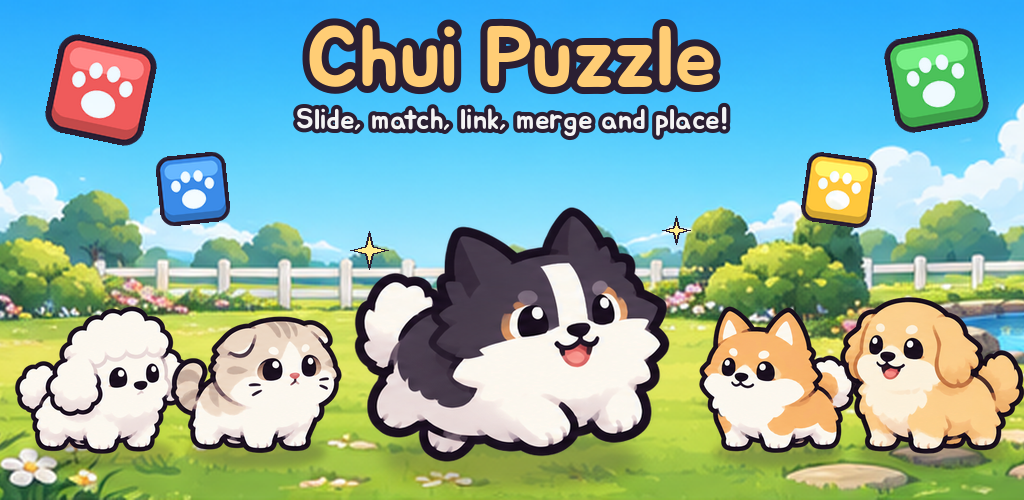
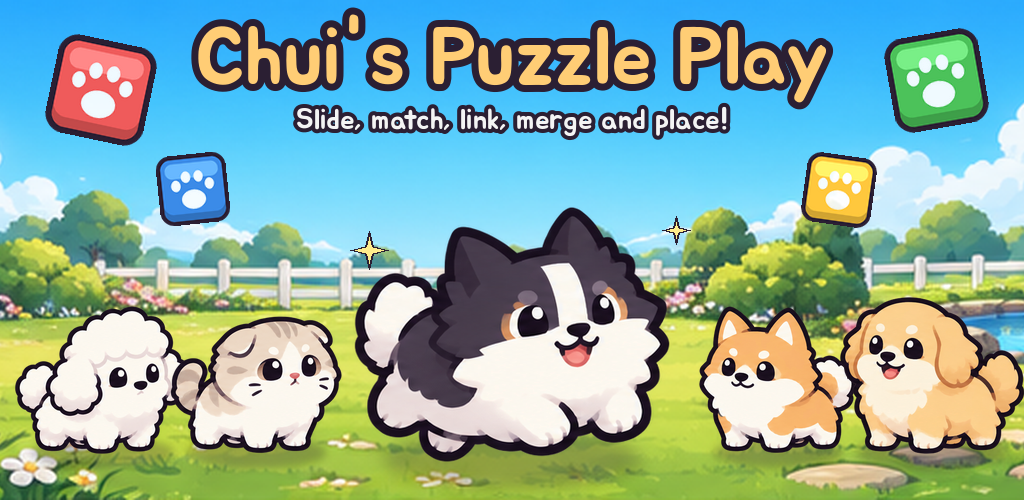
[퍼즐] 앱 이름 변경: 츄이의 퍼즐놀이 / Chui's Puzzle Play
Claude-Session: https://claude.ai/code/session_01PJzAJEc3eWmaQphFtp5aWt

Changed region(s): [[0.1875, 0.0, 0.8125, 0.21]]

diff --git a/index.html b/index.html
@@ -35,14 +35,14 @@ footer a{color:var(--muted)}
 <p class="muted">흰색·검은색 파티 포메라니안 <b>츄이</b>가 나오는 귀여운 도트 게임들</p>
 <nav><a href="#games">게임</a><a href="#news">공지</a><a href="updates/">업데이트 기록</a><a href="#coupons">쿠폰</a><a href="#collab">콜라보 코드</a><a href="en/">English</a></nav>
 <h2 id="games">게임</h2>
-<div class="games"><div class="card game"><img src="assets/icons/station.png" alt="" width="72" height="72"><div><span class="name">츄이의 우주정거장</span><span class="badge released">출시</span><div class="muted small">댕냥 방치형 키우기</div><div class="small">포메라니안 함장 츄이와 강아지·고양이 크루가 함께하는 귀여운 도트 우주 방치형 게임입니다.</div><div class="links"><a href="https://play.google.com/store/apps/details?id=com.chuifather.pomstation">Google Play</a><a href="https://onesto.re/0001010710">원스토어</a><a href="station/">자세히</a><a href="updates/#station">업데이트 기록</a></div></div></div><div class="card game"><img src="assets/icons/survivors.png" alt="" width="72" height="72"><div><span class="name">츄이 서바이버즈</span><span class="badge released">출시</span><div class="muted small">댕냥이 도트 서바이벌</div><div class="small">산책 나온 포메라니안 츄이가 공원에서 몰려드는 모기·비둘기·다람쥐를 상대로 10분을 버티는 도트 서바이벌 게임입니다.</div><div class="links"><a href="https://onesto.re/0001010711">원스토어</a><a href="survivors/">자세히</a><a href="updates/#survivors">업데이트 기록</a></div></div></div><div class="card game"><img src="assets/icons/defense.png" alt="" width="72" height="72"><div><span class="name">츄이 디펜스</span><span class="badge testing">출시 준비 중</span><div class="muted small">강아지 고양이 머지 디펜스</div><div class="small">같은 크루 둘을 합쳐 더 강하게! 강아지·고양이 크루로 몰려오는 비둘기·다람쥐를 막는 귀여운 도트 머지 디펜스 게임입니다.</div><div class="links"><a href="defense/">자세히</a></div></div></div><div class="card game"><img src="assets/icons/puzzle.png" alt="" width="72" height="72"><div><span class="name">츄이 퍼즐</span><span class="badge testing">출시 준비 중</span><div class="muted small">댕냥 퍼즐 모음</div><div class="small">밀고, 맞추고, 잇고, 합치고, 놓고! 츄이와 강아지·고양이 친구들과 즐기는 퍼즐 다섯 가지와 오늘의 도전.</div><div class="links"><a href="puzzle/">자세히</a></div></div></div></div>
+<div class="games"><div class="card game"><img src="assets/icons/station.png" alt="" width="72" height="72"><div><span class="name">츄이의 우주정거장</span><span class="badge released">출시</span><div class="muted small">댕냥 방치형 키우기</div><div class="small">포메라니안 함장 츄이와 강아지·고양이 크루가 함께하는 귀여운 도트 우주 방치형 게임입니다.</div><div class="links"><a href="https://play.google.com/store/apps/details?id=com.chuifather.pomstation">Google Play</a><a href="https://onesto.re/0001010710">원스토어</a><a href="station/">자세히</a><a href="updates/#station">업데이트 기록</a></div></div></div><div class="card game"><img src="assets/icons/survivors.png" alt="" width="72" height="72"><div><span class="name">츄이 서바이버즈</span><span class="badge released">출시</span><div class="muted small">댕냥이 도트 서바이벌</div><div class="small">산책 나온 포메라니안 츄이가 공원에서 몰려드는 모기·비둘기·다람쥐를 상대로 10분을 버티는 도트 서바이벌 게임입니다.</div><div class="links"><a href="https://onesto.re/0001010711">원스토어</a><a href="survivors/">자세히</a><a href="updates/#survivors">업데이트 기록</a></div></div></div><div class="card game"><img src="assets/icons/defense.png" alt="" width="72" height="72"><div><span class="name">츄이 디펜스</span><span class="badge testing">출시 준비 중</span><div class="muted small">강아지 고양이 머지 디펜스</div><div class="small">같은 크루 둘을 합쳐 더 강하게! 강아지·고양이 크루로 몰려오는 비둘기·다람쥐를 막는 귀여운 도트 머지 디펜스 게임입니다.</div><div class="links"><a href="defense/">자세히</a></div></div></div><div class="card game"><img src="assets/icons/puzzle.png" alt="" width="72" height="72"><div><span class="name">츄이의 퍼즐놀이</span><span class="badge testing">출시 준비 중</span><div class="muted small">댕냥 퍼즐 모음</div><div class="small">밀고, 맞추고, 잇고, 합치고, 놓고! 츄이와 강아지·고양이 친구들과 즐기는 퍼즐 다섯 가지와 오늘의 도전.</div><div class="links"><a href="puzzle/">자세히</a></div></div></div></div>
 <h2 id="news">공지</h2>
 <div class="card news"><span class="date">2026-10-19 · 츄이 시리즈</span><br><b>츄이 시리즈 홈페이지를 열었어요</b><br>츄이가 나오는 게임 소식, 쿠폰, 콜라보 코드를 여기에서 한눈에 볼 수 있어요.</div>
 <h2 id="coupons">쿠폰</h2>
-<p class="small muted">게임 <b>설정 → 쿠폰 입력</b>에 넣으면 받을 수 있어요. 쿠폰 하나는 한 번만 받을 수 있어요.</p><div class="card" data-start="2026-10-23" data-end="2027-01-21"><span class="muted small">츄이의 우주정거장 · 2026-10-23 ~ 2027-01-21</span><div class="code"><code>SPACE-OPEN</code><button data-copy="SPACE-OPEN" data-done="복사됨">복사</button></div><div class="small">모집권 20장 (오픈 기념)</div></div><div class="card" data-start="2026-10-23" data-end=""><span class="muted small">츄이의 우주정거장 · 기간 없음</span><div class="code"><code>CHUI-SPACE</code><button data-copy="CHUI-SPACE" data-done="복사됨">복사</button></div><div class="small">모집권 10장</div></div><div class="card" data-start="2026-10-27" data-end="2027-01-25"><span class="muted small">츄이 서바이버즈 · 2026-10-27 ~ 2027-01-25</span><div class="code"><code>CHUI-OPEN</code><button data-copy="CHUI-OPEN" data-done="복사됨">복사</button></div><div class="small">용돈 5,000 (오픈 기념)</div></div><div class="card" data-start="2026-10-27" data-end=""><span class="muted small">츄이 서바이버즈 · 기간 없음</span><div class="code"><code>CHUI-WELCOME</code><button data-copy="CHUI-WELCOME" data-done="복사됨">복사</button></div><div class="small">용돈 3,000</div></div><div class="card" data-start="2026-11-20" data-end=""><span class="muted small">츄이 퍼즐 · 기간 없음</span><div class="code"><code>CHUI-SNACK</code><button data-copy="CHUI-SNACK" data-done="복사됨">복사</button></div><div class="small">동전 300 + 이동 +5 1개 + 폭탄 1개</div></div><div class="card" data-start="2026-11-20" data-end="2027-02-18"><span class="muted small">츄이 퍼즐 · 2026-11-20 ~ 2027-02-18</span><div class="code"><code>PUZZLE-OPEN</code><button data-copy="PUZZLE-OPEN" data-done="복사됨">복사</button></div><div class="small">동전 500 + 이동 +5 2개 (오픈 기념)</div></div><p id="no-coupons" class="muted" hidden>지금 받을 수 있는 쿠폰이 없어요.</p>
+<p class="small muted">게임 <b>설정 → 쿠폰 입력</b>에 넣으면 받을 수 있어요. 쿠폰 하나는 한 번만 받을 수 있어요.</p><div class="card" data-start="2026-10-23" data-end="2027-01-21"><span class="muted small">츄이의 우주정거장 · 2026-10-23 ~ 2027-01-21</span><div class="code"><code>SPACE-OPEN</code><button data-copy="SPACE-OPEN" data-done="복사됨">복사</button></div><div class="small">모집권 20장 (오픈 기념)</div></div><div class="card" data-start="2026-10-23" data-end=""><span class="muted small">츄이의 우주정거장 · 기간 없음</span><div class="code"><code>CHUI-SPACE</code><button data-copy="CHUI-SPACE" data-done="복사됨">복사</button></div><div class="small">모집권 10장</div></div><div class="card" data-start="2026-10-27" data-end="2027-01-25"><span class="muted small">츄이 서바이버즈 · 2026-10-27 ~ 2027-01-25</span><div class="code"><code>CHUI-OPEN</code><button data-copy="CHUI-OPEN" data-done="복사됨">복사</button></div><div class="small">용돈 5,000 (오픈 기념)</div></div><div class="card" data-start="2026-10-27" data-end=""><span class="muted small">츄이 서바이버즈 · 기간 없음</span><div class="code"><code>CHUI-WELCOME</code><button data-copy="CHUI-WELCOME" data-done="복사됨">복사</button></div><div class="small">용돈 3,000</div></div><div class="card" data-start="2026-11-20" data-end=""><span class="muted small">츄이의 퍼즐놀이 · 기간 없음</span><div class="code"><code>CHUI-SNACK</code><button data-copy="CHUI-SNACK" data-done="복사됨">복사</button></div><div class="small">동전 300 + 이동 +5 1개 + 폭탄 1개</div></div><div class="card" data-start="2026-11-20" data-end="2027-02-18"><span class="muted small">츄이의 퍼즐놀이 · 2026-11-20 ~ 2027-02-18</span><div class="code"><code>PUZZLE-OPEN</code><button data-copy="PUZZLE-OPEN" data-done="복사됨">복사</button></div><div class="small">동전 500 + 이동 +5 2개 (오픈 기념)</div></div><p id="no-coupons" class="muted" hidden>지금 받을 수 있는 쿠폰이 없어요.</p>
 <h2 id="collab">콜라보 코드</h2>
 <p class="small muted">다른 츄이 게임의 <b>설정 → 쿠폰 입력</b>에 넣으면 그 게임에서 선물을 받아요.</p><div class="card"><span class="muted small">츄이의 우주정거장</span><div class="code"><code>CHUI-STATION</code><button data-copy="CHUI-STATION" data-done="복사됨">복사</button></div></div><div class="card"><span class="muted small">츄이 서바이버즈</span><div class="code"><code>CHUI-SURVIVORS</code><button data-copy="CHUI-SURVIVORS" data-done="복사됨">복사</button></div></div>
-<footer>개발자 chuiFather · 흑백너구리 · 문의 <a href="mailto:polalis715@gmail.com">polalis715@gmail.com</a><br>개인정보처리방침: <a href="privacy/">츄이의 우주정거장</a> · <a href="survivors/privacy/">츄이 서바이버즈</a> · <a href="defense/privacy/">츄이 디펜스</a> · <a href="puzzle/privacy/">츄이 퍼즐</a></footer>
+<footer>개발자 chuiFather · 흑백너구리 · 문의 <a href="mailto:polalis715@gmail.com">polalis715@gmail.com</a><br>개인정보처리방침: <a href="privacy/">츄이의 우주정거장</a> · <a href="survivors/privacy/">츄이 서바이버즈</a> · <a href="defense/privacy/">츄이 디펜스</a> · <a href="puzzle/privacy/">츄이의 퍼즐놀이</a></footer>
 </main><script>
 (function(){
   // 쿠폰 기간: 한국 시간 날짜(YYYY-MM-DD)로 비교, 지난 것·아직인 것은 숨김

diff --git a/en/index.html b/en/index.html
@@ -35,14 +35,14 @@ footer a{color:var(--muted)}
 <p class="muted">Cute pixel games starring <b>Chui</b>, a black-and-white parti Pomeranian</p>
 <nav><a href="#games">Games</a><a href="#news">News</a><a href="updates/">Update history</a><a href="#coupons">Coupons</a><a href="#collab">Collab codes</a><a href="../">한국어</a></nav>
 <h2 id="games">Games</h2>
-<div class="games"><div class="card game"><img src="../assets/icons/station.png" alt="" width="72" height="72"><div><span class="name">Chui&#x27;s Space Station</span><span class="badge released">Out now</span><div class="muted small">Idle space station with dogs and cats</div><div class="small">A cute pixel idle game where Captain Chui the Pomeranian runs a space station with dog and cat crew.</div><div class="links"><a href="https://play.google.com/store/apps/details?id=com.chuifather.pomstation">Google Play</a><a href="https://onesto.re/0001010710">ONE store</a><a href="../station/">More</a><a href="updates/#station">Update history</a></div></div></div><div class="card game"><img src="../assets/icons/survivors.png" alt="" width="72" height="72"><div><span class="name">Chui Survivors</span><span class="badge released">Out now</span><div class="muted small">Pixel survival with dogs and cats</div><div class="small">Chui the Pomeranian is out for a walk in the park. Survive 10 minutes against swarms of mosquitoes, pigeons and squirrels.</div><div class="links"><a href="https://onesto.re/0001010711">ONE store</a><a href="../survivors/en/">More</a><a href="updates/#survivors">Update history</a></div></div></div><div class="card game"><img src="../assets/icons/defense.png" alt="" width="72" height="72"><div><span class="name">Chui Defense</span><span class="badge testing">Coming soon</span><div class="muted small">Merge defense with dogs and cats</div><div class="small">Merge two of the same crew to make them stronger! Stop pigeons and squirrels with your dog and cat crew in this cute pixel merge defense.</div><div class="links"><a href="../defense/en/">More</a></div></div></div><div class="card game"><img src="../assets/icons/puzzle.png" alt="" width="72" height="72"><div><span class="name">Chui Puzzle</span><span class="badge testing">Coming soon</span><div class="muted small">Puzzle collection with dogs and cats</div><div class="small">Slide, match, link, merge and place! Five cozy puzzles and a Daily Challenge with Chui and pet friends.</div><div class="links"><a href="../puzzle/en/">More</a></div></div></div></div>
+<div class="games"><div class="card game"><img src="../assets/icons/station.png" alt="" width="72" height="72"><div><span class="name">Chui&#x27;s Space Station</span><span class="badge released">Out now</span><div class="muted small">Idle space station with dogs and cats</div><div class="small">A cute pixel idle game where Captain Chui the Pomeranian runs a space station with dog and cat crew.</div><div class="links"><a href="https://play.google.com/store/apps/details?id=com.chuifather.pomstation">Google Play</a><a href="https://onesto.re/0001010710">ONE store</a><a href="../station/">More</a><a href="updates/#station">Update history</a></div></div></div><div class="card game"><img src="../assets/icons/survivors.png" alt="" width="72" height="72"><div><span class="name">Chui Survivors</span><span class="badge released">Out now</span><div class="muted small">Pixel survival with dogs and cats</div><div class="small">Chui the Pomeranian is out for a walk in the park. Survive 10 minutes against swarms of mosquitoes, pigeons and squirrels.</div><div class="links"><a href="https://onesto.re/0001010711">ONE store</a><a href="../survivors/en/">More</a><a href="updates/#survivors">Update history</a></div></div></div><div class="card game"><img src="../assets/icons/defense.png" alt="" width="72" height="72"><div><span class="name">Chui Defense</span><span class="badge testing">Coming soon</span><div class="muted small">Merge defense with dogs and cats</div><div class="small">Merge two of the same crew to make them stronger! Stop pigeons and squirrels with your dog and cat crew in this cute pixel merge defense.</div><div class="links"><a href="../defense/en/">More</a></div></div></div><div class="card game"><img src="../assets/icons/puzzle.png" alt="" width="72" height="72"><div><span class="name">Chui&#x27;s Puzzle Play</span><span class="badge testing">Coming soon</span><div class="muted small">Puzzle collection with dogs and cats</div><div class="small">Slide, match, link, merge and place! Five cozy puzzles and a Daily Challenge with Chui and pet friends.</div><div class="links"><a href="../puzzle/en/">More</a></div></div></div></div>
 <h2 id="news">News</h2>
 <div class="card news"><span class="date">2026-10-19 · Chui Series</span><br><b>The Chui series homepage is open</b><br>News, coupons and collab codes for every Chui game, all in one place.</div>
 <h2 id="coupons">Coupons</h2>
-<p class="small muted">Enter a code in the game under <b>Settings → Coupon</b>. Each coupon can be used once.</p><div class="card" data-start="2026-10-23" data-end="2027-01-21"><span class="muted small">Chui&#x27;s Space Station · 2026-10-23 ~ 2027-01-21</span><div class="code"><code>SPACE-OPEN</code><button data-copy="SPACE-OPEN" data-done="Copied">Copy</button></div><div class="small">20 Recruit Tickets (Grand Opening)</div></div><div class="card" data-start="2026-10-23" data-end=""><span class="muted small">Chui&#x27;s Space Station · No end date</span><div class="code"><code>CHUI-SPACE</code><button data-copy="CHUI-SPACE" data-done="Copied">Copy</button></div><div class="small">10 Recruit Tickets</div></div><div class="card" data-start="2026-10-27" data-end="2027-01-25"><span class="muted small">Chui Survivors · 2026-10-27 ~ 2027-01-25</span><div class="code"><code>CHUI-OPEN</code><button data-copy="CHUI-OPEN" data-done="Copied">Copy</button></div><div class="small">5,000 Allowance (Grand Opening)</div></div><div class="card" data-start="2026-10-27" data-end=""><span class="muted small">Chui Survivors · No end date</span><div class="code"><code>CHUI-WELCOME</code><button data-copy="CHUI-WELCOME" data-done="Copied">Copy</button></div><div class="small">3,000 Allowance</div></div><div class="card" data-start="2026-11-20" data-end=""><span class="muted small">Chui Puzzle · No end date</span><div class="code"><code>CHUI-SNACK</code><button data-copy="CHUI-SNACK" data-done="Copied">Copy</button></div><div class="small">300 Coins + 1 Moves +5 + 1 Bomb</div></div><div class="card" data-start="2026-11-20" data-end="2027-02-18"><span class="muted small">Chui Puzzle · 2026-11-20 ~ 2027-02-18</span><div class="code"><code>PUZZLE-OPEN</code><button data-copy="PUZZLE-OPEN" data-done="Copied">Copy</button></div><div class="small">500 Coins + 2 Moves +5 (Grand Opening)</div></div><p id="no-coupons" class="muted" hidden>No coupons available right now.</p>
+<p class="small muted">Enter a code in the game under <b>Settings → Coupon</b>. Each coupon can be used once.</p><div class="card" data-start="2026-10-23" data-end="2027-01-21"><span class="muted small">Chui&#x27;s Space Station · 2026-10-23 ~ 2027-01-21</span><div class="code"><code>SPACE-OPEN</code><button data-copy="SPACE-OPEN" data-done="Copied">Copy</button></div><div class="small">20 Recruit Tickets (Grand Opening)</div></div><div class="card" data-start="2026-10-23" data-end=""><span class="muted small">Chui&#x27;s Space Station · No end date</span><div class="code"><code>CHUI-SPACE</code><button data-copy="CHUI-SPACE" data-done="Copied">Copy</button></div><div class="small">10 Recruit Tickets</div></div><div class="card" data-start="2026-10-27" data-end="2027-01-25"><span class="muted small">Chui Survivors · 2026-10-27 ~ 2027-01-25</span><div class="code"><code>CHUI-OPEN</code><button data-copy="CHUI-OPEN" data-done="Copied">Copy</button></div><div class="small">5,000 Allowance (Grand Opening)</div></div><div class="card" data-start="2026-10-27" data-end=""><span class="muted small">Chui Survivors · No end date</span><div class="code"><code>CHUI-WELCOME</code><button data-copy="CHUI-WELCOME" data-done="Copied">Copy</button></div><div class="small">3,000 Allowance</div></div><div class="card" data-start="2026-11-20" data-end=""><span class="muted small">Chui&#x27;s Puzzle Play · No end date</span><div class="code"><code>CHUI-SNACK</code><button data-copy="CHUI-SNACK" data-done="Copied">Copy</button></div><div class="small">300 Coins + 1 Moves +5 + 1 Bomb</div></div><div class="card" data-start="2026-11-20" data-end="2027-02-18"><span class="muted small">Chui&#x27;s Puzzle Play · 2026-11-20 ~ 2027-02-18</span><div class="code"><code>PUZZLE-OPEN</code><button data-copy="PUZZLE-OPEN" data-done="Copied">Copy</button></div><div class="small">500 Coins + 2 Moves +5 (Grand Opening)</div></div><p id="no-coupons" class="muted" hidden>No coupons available right now.</p>
 <h2 id="collab">Collab codes</h2>
 <p class="small muted">Enter a code in another Chui game under <b>Settings → Coupon</b> to get a gift in that game.</p><div class="card"><span class="muted small">Chui&#x27;s Space Station</span><div class="code"><code>CHUI-STATION</code><button data-copy="CHUI-STATION" data-done="Copied">Copy</button></div></div><div class="card"><span class="muted small">Chui Survivors</span><div class="code"><code>CHUI-SURVIVORS</code><button data-copy="CHUI-SURVIVORS" data-done="Copied">Copy</button></div></div>
-<footer>Developer chuiFather · Black and White Raccoon · Contact <a href="mailto:polalis715@gmail.com">polalis715@gmail.com</a><br>Privacy: <a href="../en/privacy/">Chui&#x27;s Space Station</a> · <a href="../survivors/en/privacy/">Chui Survivors</a> · <a href="../defense/en/privacy/">Chui Defense</a> · <a href="../puzzle/en/privacy/">Chui Puzzle</a></footer>
+<footer>Developer chuiFather · Black and White Raccoon · Contact <a href="mailto:polalis715@gmail.com">polalis715@gmail.com</a><br>Privacy: <a href="../en/privacy/">Chui&#x27;s Space Station</a> · <a href="../survivors/en/privacy/">Chui Survivors</a> · <a href="../defense/en/privacy/">Chui Defense</a> · <a href="../puzzle/en/privacy/">Chui&#x27;s Puzzle Play</a></footer>
 </main><script>
 (function(){
   // 쿠폰 기간: 한국 시간 날짜(YYYY-MM-DD)로 비교, 지난 것·아직인 것은 숨김

diff --git a/puzzle/privacy/index.html b/puzzle/privacy/index.html
@@ -1,6 +1,6 @@
 <!doctype html>
 <html lang="ko"><head><meta charset="utf-8"><meta name="viewport" content="width=device-width,initial-scale=1">
-<title>개인정보처리방침 — 츄이 퍼즐</title><style>
+<title>개인정보처리방침 — 츄이의 퍼즐놀이</title><style>
 :root{--bg:#1a1630;--panel:#26204a;--edge:#4a3f8a;--text:#ecebf7;--muted:#b9b4d6;--gold:#ffcd75}
 *{box-sizing:border-box}body{margin:0;background:var(--bg);color:var(--text);
 font:16px/1.7 -apple-system,"Apple SD Gothic Neo","Noto Sans KR","Malgun Gothic",sans-serif}
@@ -10,9 +10,9 @@ a{color:#73eff7}table{width:100%;border-collapse:collapse;font-size:.9rem;displa
 th,td{border:1px solid var(--edge);padding:6px 8px;text-align:left;vertical-align:top}th{background:var(--panel)}
 hr{border:0;border-top:1px solid var(--edge);margin:2.5rem 0}
 </style></head><body><main>
-<h1>개인정보처리방침 — 츄이 퍼즐</h1>
+<h1>개인정보처리방침 — 츄이의 퍼즐놀이</h1>
 <p>시행일: 출시일 · 최종 수정: 2026년 10월 28일 (푸시 알림·쿠폰)</p>
-<p>「츄이 퍼즐」(이하 "게임")의 개발자(이하 "개발자")는 이용자의 개인정보를 소중히 다루며, 「개인정보 보호법」 등 관련 법령을 지킵니다. 이 방침은 게임이 어떤 정보를 어떻게 처리하는지 알려드립니다.</p>
+<p>「츄이의 퍼즐놀이」(이하 "게임")의 개발자(이하 "개발자")는 이용자의 개인정보를 소중히 다루며, 「개인정보 보호법」 등 관련 법령을 지킵니다. 이 방침은 게임이 어떤 정보를 어떻게 처리하는지 알려드립니다.</p>
 <h2>1. 개발자가 직접 수집하는 개인정보</h2>
 <p><strong>없습니다.</strong> 개발자는 이름, 이메일, 전화번호 등 이용자를 식별할 수 있는 정보를 직접 수집하거나 서버에 저장하지 않습니다.</p>
 <p>게임 진행 데이터(스테이지, 친구 도감, 동전, 아이템, 설정 등)는 <strong>이용자의 기기 안에</strong> 저장되며 개발자에게 전송되지 않습니다.
@@ -105,5 +105,5 @@ hr{border:0;border-top:1px solid var(--edge);margin:2.5rem 0}
 <hr />
 <h1>Privacy Policy (English summary)</h1>
 <p>Full English version: <a href="https://chuifather.github.io/puzzle/en/privacy/">https://chuifather.github.io/puzzle/en/privacy/</a></p>
-<p>The developer of "Chui Puzzle" does <strong>not</strong> collect personal information directly. Game progress is stored on your device (and may be included in your own Google account backup if Android backup is on). You can delete it by uninstalling or Settings → "Reset data"; contact us for help. The game uses Google AdMob (rewarded ads; advertising ID, device info, IP), Google Play Games Services (optional sign-in, achievements, leaderboards, cloud save), Firebase Remote Config (notices, events, coupons; Firebase installation ID), Firebase Cloud Messaging (update/notice push notifications and, only with your consent, event &amp; offer notifications; installation ID, notification token, subscribed topics) and Google Play Billing or ONE store in-app payments (purchases), each under its provider's own privacy policy linked above. Users in the EEA/UK are asked for ad consent on first launch. The game is not directed at children under 14. Contact: polalis715@gmail.com.</p>
+<p>The developer of "Chui's Puzzle Play" does <strong>not</strong> collect personal information directly. Game progress is stored on your device (and may be included in your own Google account backup if Android backup is on). You can delete it by uninstalling or Settings → "Reset data"; contact us for help. The game uses Google AdMob (rewarded ads; advertising ID, device info, IP), Google Play Games Services (optional sign-in, achievements, leaderboards, cloud save), Firebase Remote Config (notices, events, coupons; Firebase installation ID), Firebase Cloud Messaging (update/notice push notifications and, only with your consent, event &amp; offer notifications; installation ID, notification token, subscribed topics) and Google Play Billing or ONE store in-app payments (purchases), each under its provider's own privacy policy linked above. Users in the EEA/UK are asked for ad consent on first launch. The game is not directed at children under 14. Contact: polalis715@gmail.com.</p>
 </main></body></html>

diff --git a/puzzle/index.html b/puzzle/index.html
@@ -1,6 +1,6 @@
 <!doctype html>
 <html lang="ko"><head><meta charset="utf-8"><meta name="viewport" content="width=device-width,initial-scale=1">
-<title>츄이 퍼즐</title><style>
+<title>츄이의 퍼즐놀이</title><style>
 :root{--bg:#1a1630;--panel:#26204a;--edge:#4a3f8a;--text:#ecebf7;--muted:#b9b4d6;--gold:#ffcd75}
 *{box-sizing:border-box}body{margin:0;background:var(--bg);color:var(--text);
 font:16px/1.7 -apple-system,"Apple SD Gothic Neo","Noto Sans KR","Malgun Gothic",sans-serif}
@@ -10,5 +10,5 @@ a{color:#73eff7}table{width:100%;border-collapse:collapse;font-size:.9rem;displa
 th,td{border:1px solid var(--edge);padding:6px 8px;text-align:left;vertical-align:top}th{background:var(--panel)}
 hr{border:0;border-top:1px solid var(--edge);margin:2.5rem 0}
 </style></head><body><main>
-<p><img src="icon.png" alt="" width="96" height="96" style="border-radius:22px"></p><h1>츄이 퍼즐</h1><p>밀고, 맞추고, 잇고, 합치고, 놓고! 강아지·고양이 친구들과 퍼즐 다섯 가지</p><p><img src="feature.png" alt="" style="width:100%;border-radius:12px"></p><ul><li>친구 모으기: 밀어서 같은 친구를 합쳐 츄이까지</li><li>퍼즐 공원: 장난감 3개 맞춰 보스 물리치기 (40스테이지)</li><li>이어 합치기: 친구를 이어 그어 한 번에 합치기 (40스테이지)</li><li>간식 가게: 간식을 합쳐 손님 주문 채우기</li><li>친구 블록: 블록을 놓아 줄 지우기, 연달아 지우면 콤보</li><li>오늘의 도전: 모두 같은 판, 날마다 모드가 바뀌어요</li></ul><p><a href="privacy/">개인정보처리방침</a> · <a href="../">츄이 시리즈 홈</a></p>
+<p><img src="icon.png" alt="" width="96" height="96" style="border-radius:22px"></p><h1>츄이의 퍼즐놀이</h1><p>밀고, 맞추고, 잇고, 합치고, 놓고! 강아지·고양이 친구들과 퍼즐 다섯 가지</p><p><img src="feature.png" alt="" style="width:100%;border-radius:12px"></p><ul><li>친구 모으기: 밀어서 같은 친구를 합쳐 츄이까지</li><li>퍼즐 공원: 장난감 3개 맞춰 보스 물리치기 (40스테이지)</li><li>이어 합치기: 친구를 이어 그어 한 번에 합치기 (40스테이지)</li><li>간식 가게: 간식을 합쳐 손님 주문 채우기</li><li>친구 블록: 블록을 놓아 줄 지우기, 연달아 지우면 콤보</li><li>오늘의 도전: 모두 같은 판, 날마다 모드가 바뀌어요</li></ul><p><a href="privacy/">개인정보처리방침</a> · <a href="../">츄이 시리즈 홈</a></p>
 </main></body></html>

diff --git a/puzzle/en/index.html b/puzzle/en/index.html
@@ -1,6 +1,6 @@
 <!doctype html>
 <html lang="en"><head><meta charset="utf-8"><meta name="viewport" content="width=device-width,initial-scale=1">
-<title>Chui Puzzle</title><style>
+<title>Chui's Puzzle Play</title><style>
 :root{--bg:#1a1630;--panel:#26204a;--edge:#4a3f8a;--text:#ecebf7;--muted:#b9b4d6;--gold:#ffcd75}
 *{box-sizing:border-box}body{margin:0;background:var(--bg);color:var(--text);
 font:16px/1.7 -apple-system,"Apple SD Gothic Neo","Noto Sans KR","Malgun Gothic",sans-serif}
@@ -10,5 +10,5 @@ a{color:#73eff7}table{width:100%;border-collapse:collapse;font-size:.9rem;displa
 th,td{border:1px solid var(--edge);padding:6px 8px;text-align:left;vertical-align:top}th{background:var(--panel)}
 hr{border:0;border-top:1px solid var(--edge);margin:2.5rem 0}
 </style></head><body><main>
-<p><img src="../icon.png" alt="" width="96" height="96" style="border-radius:22px"></p><h1>Chui Puzzle</h1><p>Slide, match, link, merge and place! Five cozy puzzles with cute pet friends.</p><p><img src="feature.png" alt="" style="width:100%;border-radius:12px"></p><ul><li>Friend Merge: slide and merge friends all the way up to Chui</li><li>Puzzle Park: match 3 toys to beat the boss (40 stages)</li><li>Link Merge: draw a line through friends to merge them at once (40 stages)</li><li>Snack Shop: merge snacks and fill customer orders</li><li>Friend Blocks: place blocks, clear lines, chain combos</li><li>Daily Challenge: the same board for everyone, a new mode each day</li></ul><p><a href="privacy/">Privacy Policy</a> · <a href="../../en/">Chui series home</a></p>
+<p><img src="../icon.png" alt="" width="96" height="96" style="border-radius:22px"></p><h1>Chui's Puzzle Play</h1><p>Slide, match, link, merge and place! Five cozy puzzles with cute pet friends.</p><p><img src="feature.png" alt="" style="width:100%;border-radius:12px"></p><ul><li>Friend Merge: slide and merge friends all the way up to Chui</li><li>Puzzle Park: match 3 toys to beat the boss (40 stages)</li><li>Link Merge: draw a line through friends to merge them at once (40 stages)</li><li>Snack Shop: merge snacks and fill customer orders</li><li>Friend Blocks: place blocks, clear lines, chain combos</li><li>Daily Challenge: the same board for everyone, a new mode each day</li></ul><p><a href="privacy/">Privacy Policy</a> · <a href="../../en/">Chui series home</a></p>
 </main></body></html>

diff --git a/puzzle/en/privacy/index.html b/puzzle/en/privacy/index.html
@@ -1,6 +1,6 @@
 <!doctype html>
 <html lang="en"><head><meta charset="utf-8"><meta name="viewport" content="width=device-width,initial-scale=1">
-<title>Privacy Policy — Chui Puzzle</title><style>
+<title>Privacy Policy — Chui's Puzzle Play</title><style>
 :root{--bg:#1a1630;--panel:#26204a;--edge:#4a3f8a;--text:#ecebf7;--muted:#b9b4d6;--gold:#ffcd75}
 *{box-sizing:border-box}body{margin:0;background:var(--bg);color:var(--text);
 font:16px/1.7 -apple-system,"Apple SD Gothic Neo","Noto Sans KR","Malgun Gothic",sans-serif}
@@ -10,9 +10,9 @@ a{color:#73eff7}table{width:100%;border-collapse:collapse;font-size:.9rem;displa
 th,td{border:1px solid var(--edge);padding:6px 8px;text-align:left;vertical-align:top}th{background:var(--panel)}
 hr{border:0;border-top:1px solid var(--edge);margin:2.5rem 0}
 </style></head><body><main>
-<h1>Privacy Policy — Chui Puzzle</h1>
+<h1>Privacy Policy — Chui's Puzzle Play</h1>
 <p>Effective: release date · Last updated: October 28, 2026 (push notifications, coupons)</p>
-<p>The developer ("we") of "Chui Puzzle" (the "game") respects your privacy and follows applicable laws, including the Korean Personal Information Protection Act.</p>
+<p>The developer ("we") of "Chui's Puzzle Play" (the "game") respects your privacy and follows applicable laws, including the Korean Personal Information Protection Act.</p>
 <h2>1. Information we collect directly</h2>
 <p><strong>None.</strong> We do not collect or store names, emails, phone numbers or any other information that identifies you.</p>
 <p>Game progress (stages, friend album, coins, items, settings) is stored <strong>on your device</strong> and is not sent to us.
